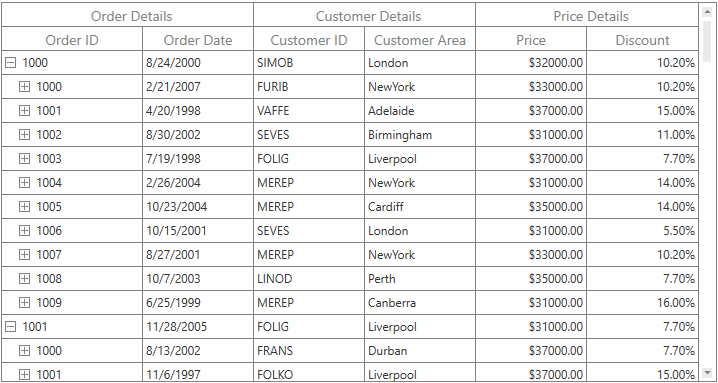
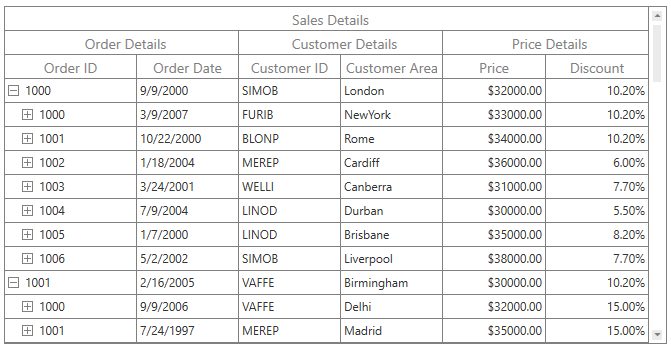
WPF-39899_StackedHeader changes are committed.

Changed region(s): [[0.0, 0.0, 1.0, 1.0], [0.6557, 0.7429, 0.6855, 0.9143]]

diff --git a/wpf/SfTreeGrid/Columns.md b/wpf/SfTreeGrid/Columns.md
@@ -730,6 +730,11 @@ Each [StackedHeaderRow](http://help.syncfusion.com/cr/cref_files/wpf/sfdatagrid/
 <syncfusion:SfTreeGrid.StackedHeaderRows>
     <syncfusion:StackedHeaderRow>
         <syncfusion:StackedHeaderRow.StackedColumns>
+            <syncfusion:StackedColumn ChildColumns="OrderID,OrderDate,CustomerID,CustomerArea,UnitPrice,Discount" HeaderText="Sales Details" />
+        </syncfusion:StackedHeaderRow.StackedColumns>
+    </syncfusion:StackedHeaderRow>
+    <syncfusion:StackedHeaderRow>
+        <syncfusion:StackedHeaderRow.StackedColumns>
             <syncfusion:StackedColumn ChildColumns="OrderID,OrderDate" HeaderText="Order Details" />
             <syncfusion:StackedColumn ChildColumns="CustomerID,CustomerArea" HeaderText="Customer Details" />
             <syncfusion:StackedColumn ChildColumns="UnitPrice,Discount" HeaderText="Price Details" />
@@ -741,10 +746,13 @@ Each [StackedHeaderRow](http://help.syncfusion.com/cr/cref_files/wpf/sfdatagrid/
 {% highlight c# %}
 
 var stackedHeaderRow = new StackedHeaderRow();
-stackedHeaderRow.StackedColumns.Add(new StackedColumn() { ChildColumns = "OrderID,OrderDate", HeaderText = "Order Details" });
-stackedHeaderRow.StackedColumns.Add(new StackedColumn() { ChildColumns = "CustomerID,CustomerArea", HeaderText = "Customer Details" });
-stackedHeaderRow.StackedColumns.Add(new StackedColumn() { ChildColumns = "UnitPrice,Discount", HeaderText = "Price Details" });
+stackedHeaderRow.StackedColumns.Add(new StackedColumn() { ChildColumns = "OrderID,OrderDate,CustomerID,CustomerArea,UnitPrice,Discount", HeaderText = "Sales Details" });
 this.treeGrid.StackedHeaderRows.Add(stackedHeaderRow);
+var stackedHeaderRow1 = new StackedHeaderRow();
+stackedHeaderRow1.StackedColumns.Add(new StackedColumn() { ChildColumns = "OrderID,OrderDate", HeaderText = "Order Details" });
+stackedHeaderRow1.StackedColumns.Add(new StackedColumn() { ChildColumns = "CustomerID,CustomerArea", HeaderText = "Customer Details" });
+stackedHeaderRow1.StackedColumns.Add(new StackedColumn() { ChildColumns = "UnitPrice,Discount", HeaderText = "Price Details" });
+this.treeGrid.StackedHeaderRows.Add(stackedHeaderRow1);
 	
 {% endhighlight %}
 {% endtabs %}
@@ -792,7 +800,7 @@ this.treeGrid.StackedHeaderRows[0].StackedColumns[0].ChildColumns = childColumns
 {% endhighlight %}
 {% endtabs %}
 
-### Changing stacked header row height
+### Changing Stacked Header Row Height
 
 You can change the height of StackedHeaderRows by using [GetTreePanel.RowHeights](https://help.syncfusion.com/cr/cref_files/wpf/sfdatagrid/Syncfusion.SfGrid.WPF~Syncfusion.UI.Xaml.TreeGrid.TreeGridPanel_properties.html) property.
 

diff --git a/wpf/SfTreeGrid/Styles-and-Templates.md b/wpf/SfTreeGrid/Styles-and-Templates.md
@@ -56,7 +56,7 @@ The appearance of stacked header can be customized by writing style of TargetTyp
 
 ![](Styles-and-Templates_images/Styles-and-Templates_img1.png)
 
-### Setting different styles to StackedHeader
+### Setting Different Style for Each Stacked Header
 
 You can apply the different style to stacked header by overriding the [default renderer](https://help.syncfusion.com/cr/cref_files/wpf/sfdatagrid/Syncfusion.SfGrid.WPF~Syncfusion.UI.Xaml.TreeGrid.Cells.TreeGridCellRendererCollection~ContainsValue.html) of StackedHeader.
 
